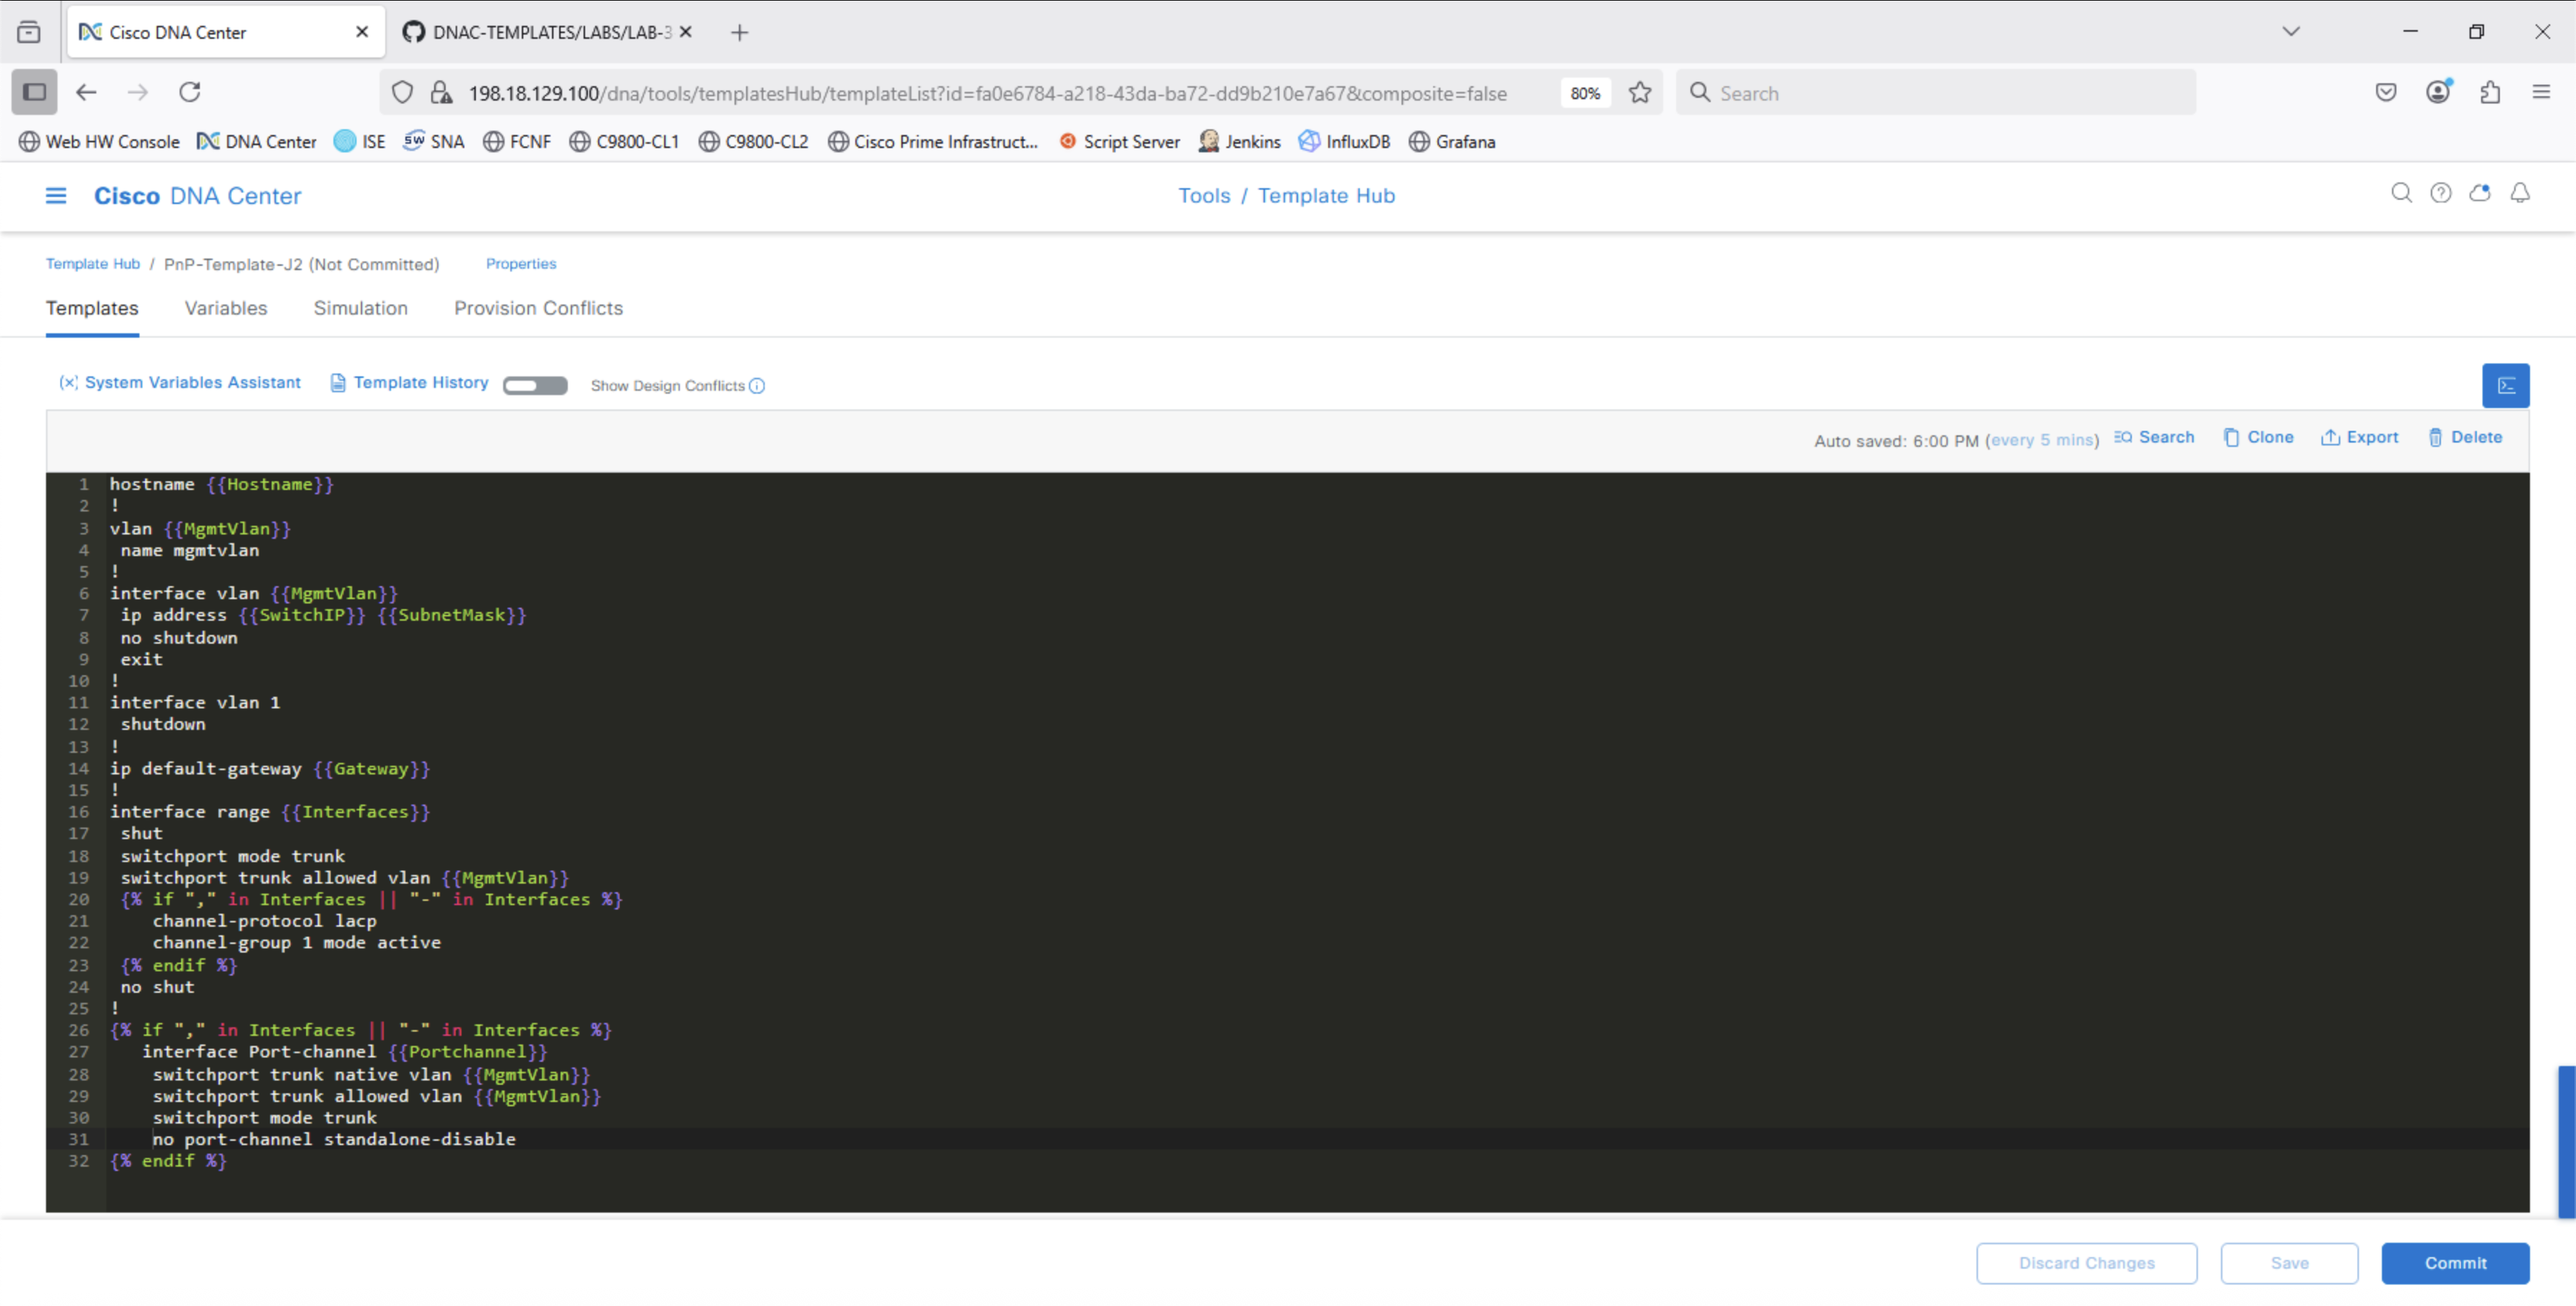
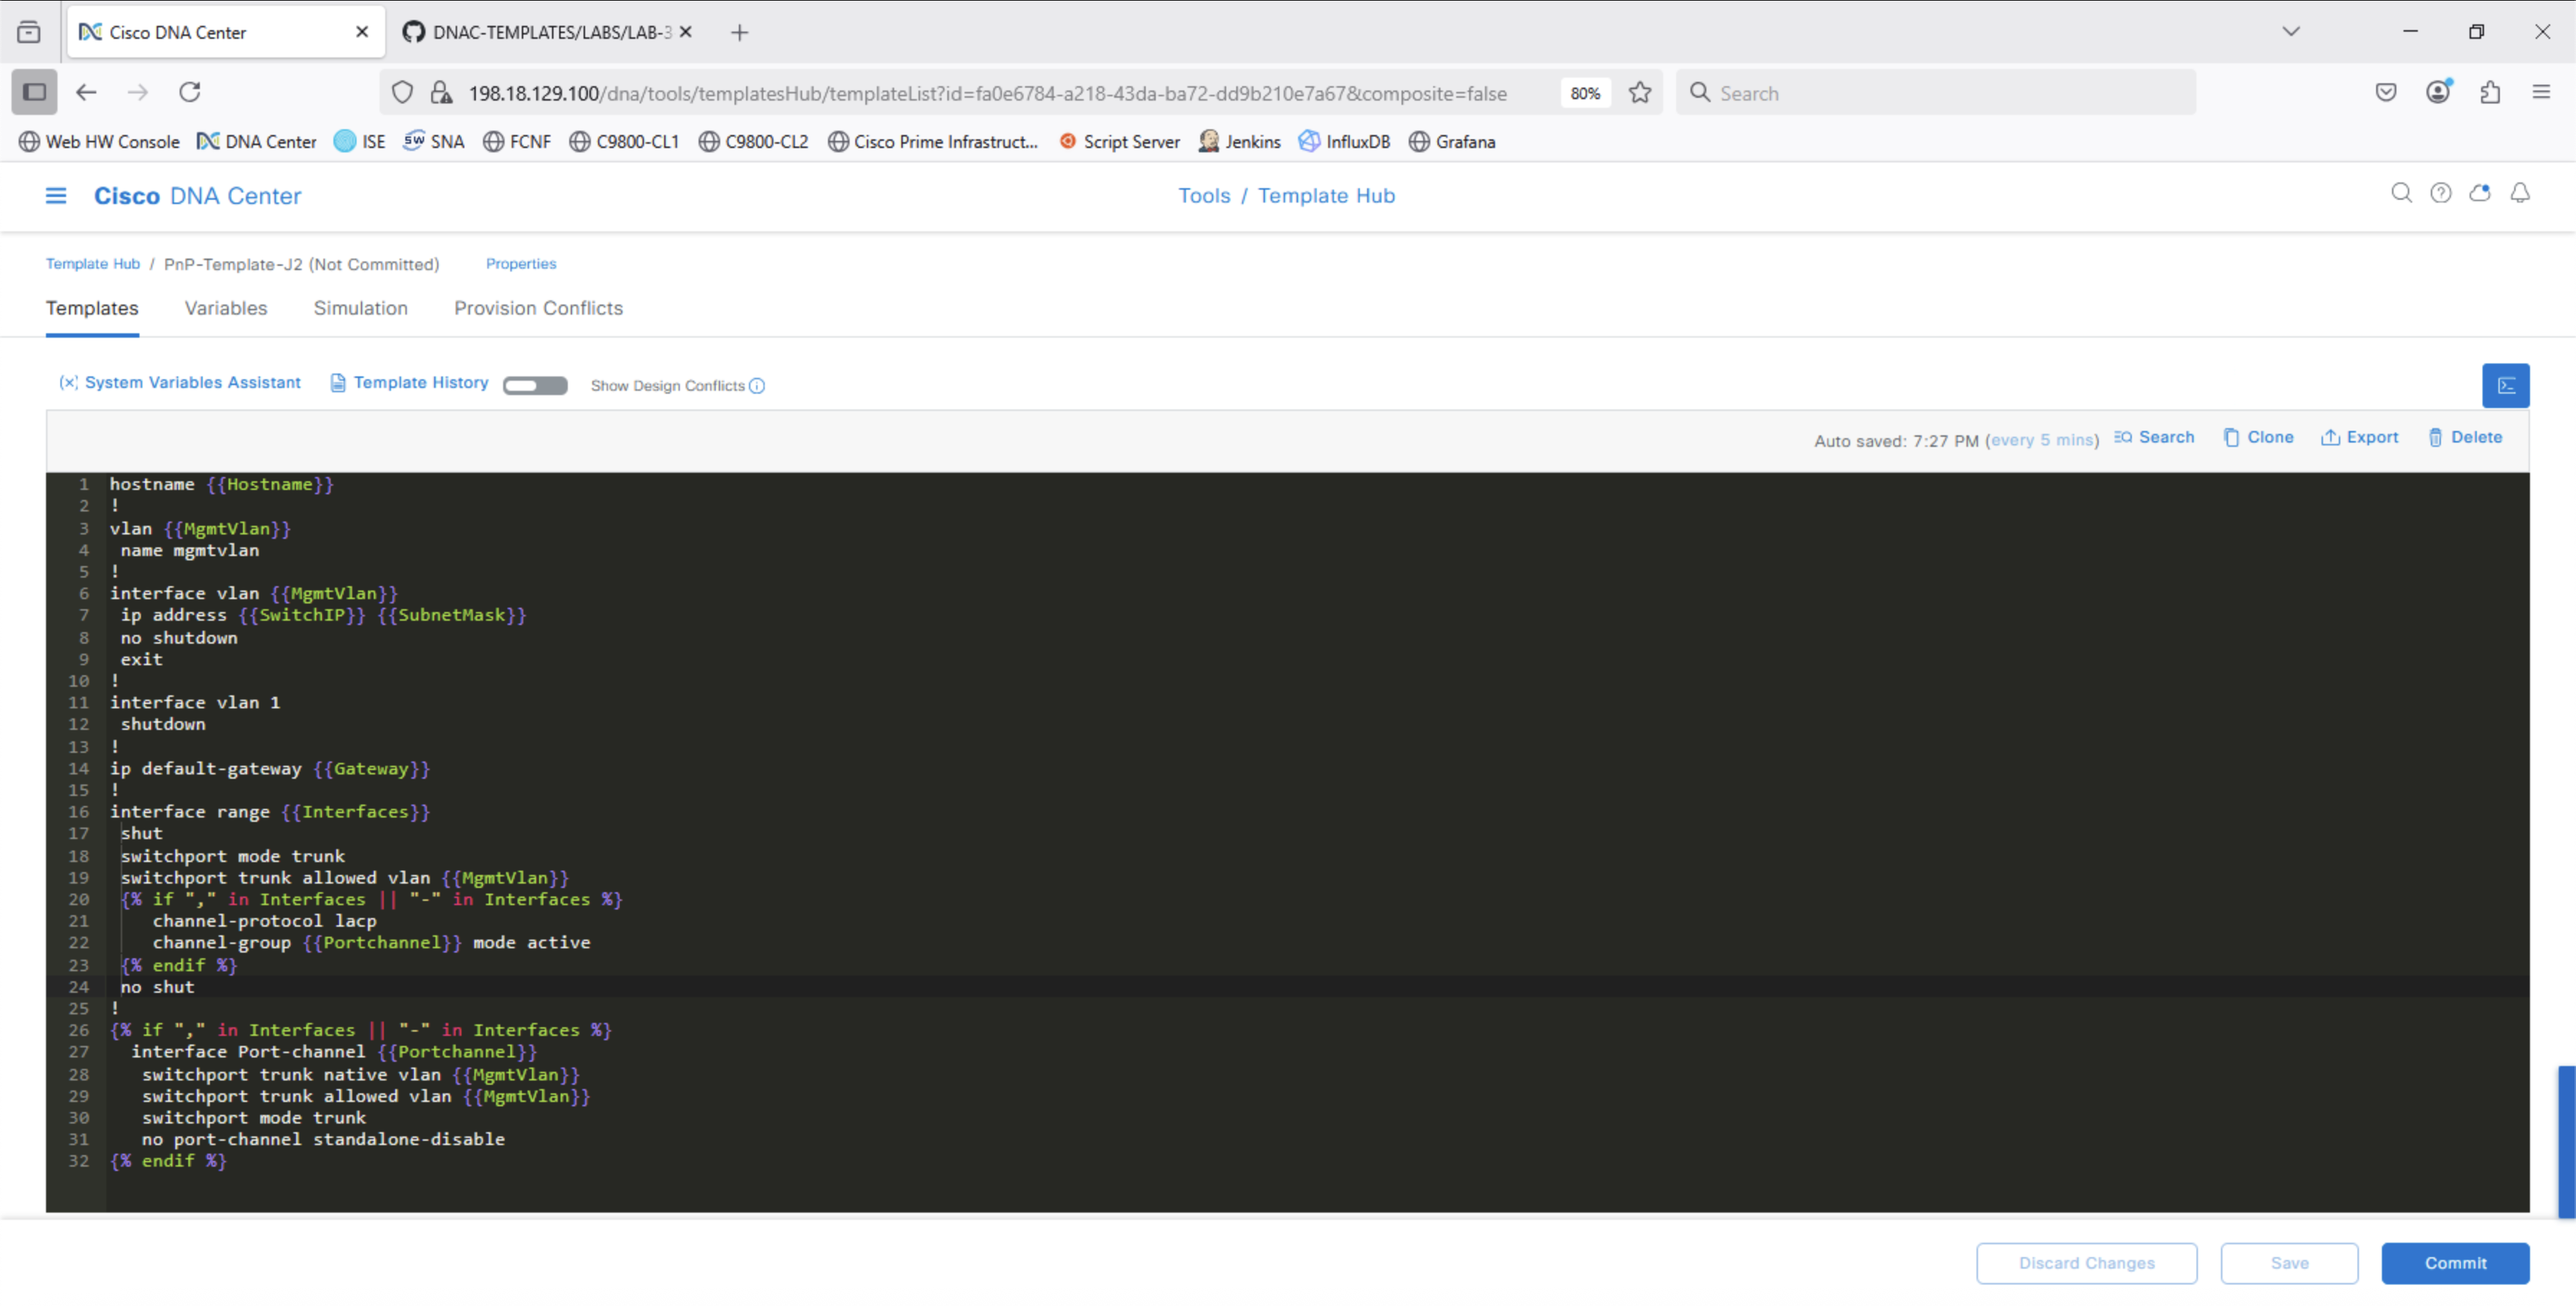
update

Changed region(s): [[0.0312, 0.8009, 0.2188, 0.8933], [0.125, 0.7085, 0.2188, 0.7393]]

diff --git a/LABS/LAB-3-Advanced-Automation/module2-day0-template.md b/LABS/LAB-3-Advanced-Automation/module2-day0-template.md
@@ -245,15 +245,15 @@ These variables will be utilized with a form so that they can be mass entered vi
 3. Lets now follow suit and allow for any Port-Channel interface number to be used by variablizing the Port-Channel numbering as shown:
    
    ```
-    interface range {{Interfaces}}
-     shut
-     switchport mode trunk
-     switchport trunk allowed vlan {{MgmtVlan}}
-     {% if "," in Interfaces || "-" in Interfaces %}
-        channel-protocol lacp
-        channel-group {{Portchannel}} mode active
-     {% endif %}
-     no shut
+   interface range {{Interfaces}}
+    shut
+    switchport mode trunk
+    switchport trunk allowed vlan {{MgmtVlan}}
+    {% if "," in Interfaces || "-" in Interfaces %}
+       channel-protocol lacp
+       channel-group {{Portchannel}} mode active
+    {% endif %}
+    no shut
    !
    {% if "," in Interfaces || "-" in Interfaces %}
      interface Port-channel {{Portchannel}}
@@ -264,11 +264,31 @@ These variables will be utilized with a form so that they can be mass entered vi
    {% endif %}
    ```
 
-   The additional logic includes a conditional statement looking for the **`,` or `-`** operators and automatically adds the Port-Channel configuring the **optional** port-channel interface if required. Notice that we additionally added a variable for the number of the Port-Channel.
+   The additional logic includes a conditional statement looking for the **`,` or `-`** operators and automatically adds the Port-Channel configuring the **optional** port-channel interface if required. Notice that we additionally **added** a **variable** for the **number** of the **Port-Channel**.
 
    ![json](../../ASSETS/LABS/TEMPLATEEDITOR/PNPTEMPLATE/basic-pnp-template-4.png?raw=true "Import JSON")
 
-4. Now lets make some further modifications to allow any Management Vlan and make iterative changes to the 
+4. Now lets make some further modifications to allow be a bit more pragmatic with the Vlan creation. First we will introduce a stabilizing element and set the **VTP configuration**, because most don't like VTP mode to be anything but **transparent** mode. 
+
+   - Now you can manually set the VTP Domain to anything or remove the `{% set VtpDomain = Hostname %}` line to allow for it to be part of the entry fields if you desire. Within this Lab we will let it be the hostname and dynamically created.
+
+   - After the set command we will set the **vtp domain** and apply **transparent mode**.
+
+   - Once we set the Management Vlan we introduce logic to optionally name the Vlan. If the Management Vlan were set to 1 then the name is default and may not be modified. Additionally Vlan 1 would not need to be shutdown. However if we utilize any other Vlan for management then we allow the naming of the Vlan within the Vlan database and automatically shutdown the SVI for Vlan 1.
+
+   ```
+   {% set VtpDomain = Hostname %}
+   vtp domain {{VtpDomain}}
+   vtp mode transparent
+   !
+   vlan {{MgmtVlan}}
+   !
+   {% if MgmtVlan > 1 %}
+     name MgmtVlan
+     interface Vlan 1
+      shutdown
+   {% endif %}
+   ```
    
 ### Step 5 - Build Form
 
